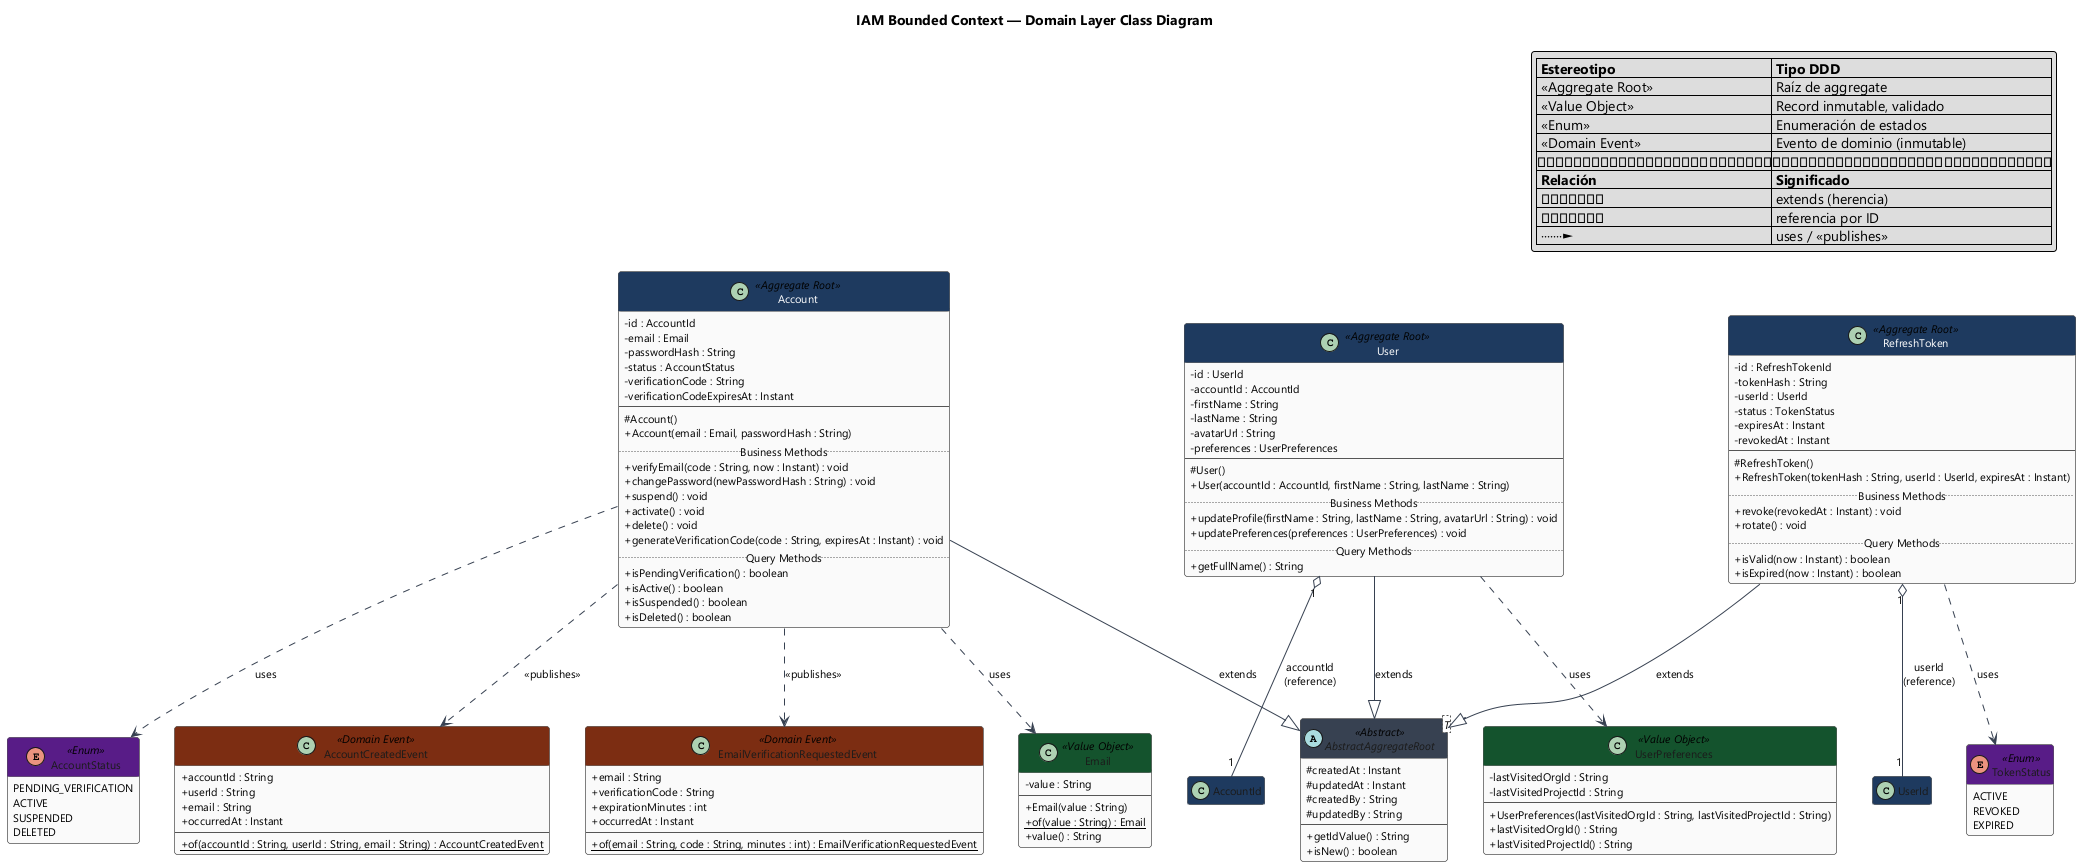
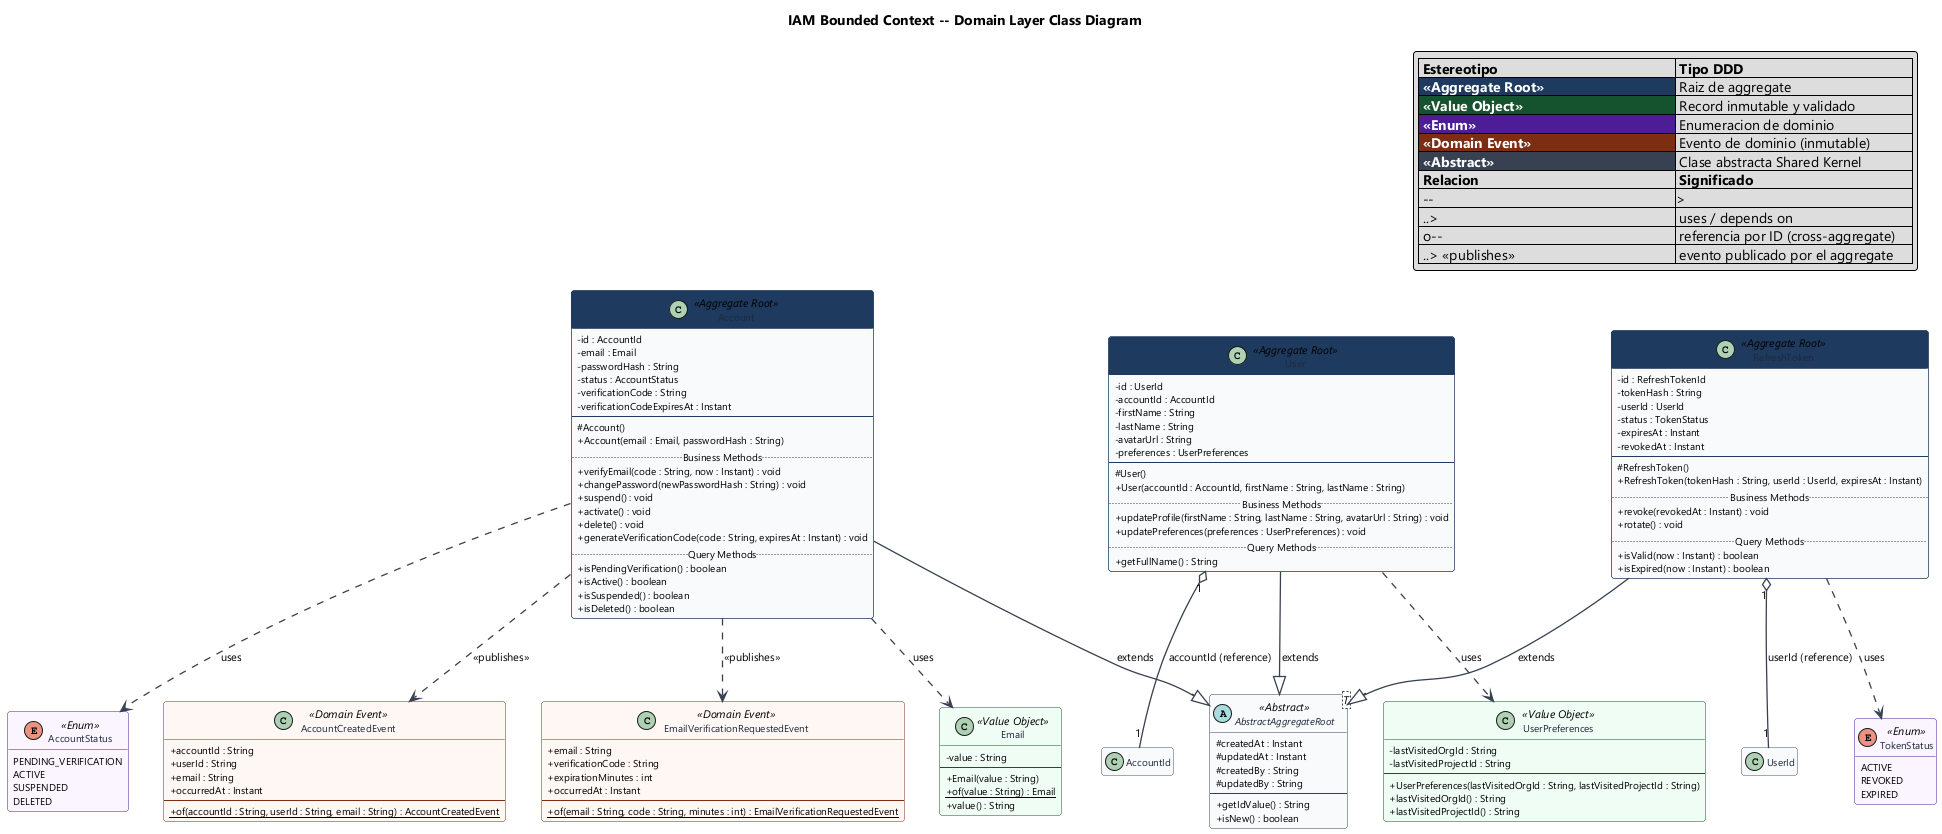
docs(iam): add and enhance architecture diagrams
- Introduce a C4 Component Diagram for the IAM module, illustrating its layered structure and interactions.
- Introduce a Database Design Diagram (ERD) for IAM, detailing the persistence model for aggregates.
- Enhance the existing Domain Class Diagram with refined styling, a comprehensive legend, and clearer relationship definitions.
- Update the README to integrate and explain these new and updated diagrams.

diff --git a/README.md b/README.md
@@ -2476,6 +2476,10 @@ Esta capa contiene las implementaciones técnicas de los puertos definidos en la
 
 ### 5.1.6. Bounded Context Software Architecture Component Level Diagrams
 
+En esta sección se presenta el diagrama de componentes C4 (Nivel 3) del BC IAM. El container es el módulo Spring Modulith completo. Los componentes reflejan la descomposición por capas y sus interacciones principales.
+
+![IAM Component Diagram](assets/diagrams/iam/iam-component.png)
+
 ### 5.1.7. Bounded Context Software Architecture Code Level Diagrams
 
 #### 5.1.7.1. Bounded Context Domain Layer Class Diagrams
@@ -2485,6 +2489,10 @@ En esta sección se presenta el diagrama de clases UML del Domain Layer del BC I
 ![IAM Domain Class Diagram](assets/diagrams/iam/iam-class.png)
 
 #### 5.1.7.2. Bounded Context Database Design Diagram
+
+En esta sección se presenta el diagrama de base de datos del BC IAM. Incluye las tres tablas que persisten los Aggregate Roots, con sus columnas, constraints y relaciones. El VO `Email` se persiste como columna embebida en `accounts`. El VO `UserPreferences` se persiste como columnas embebidas en `users`.
+
+![IAM Database Diagram](assets/diagrams/iam/iam-database.png)
 
 ## 5.2. Bounded Context: Billing and Subscriptions
 